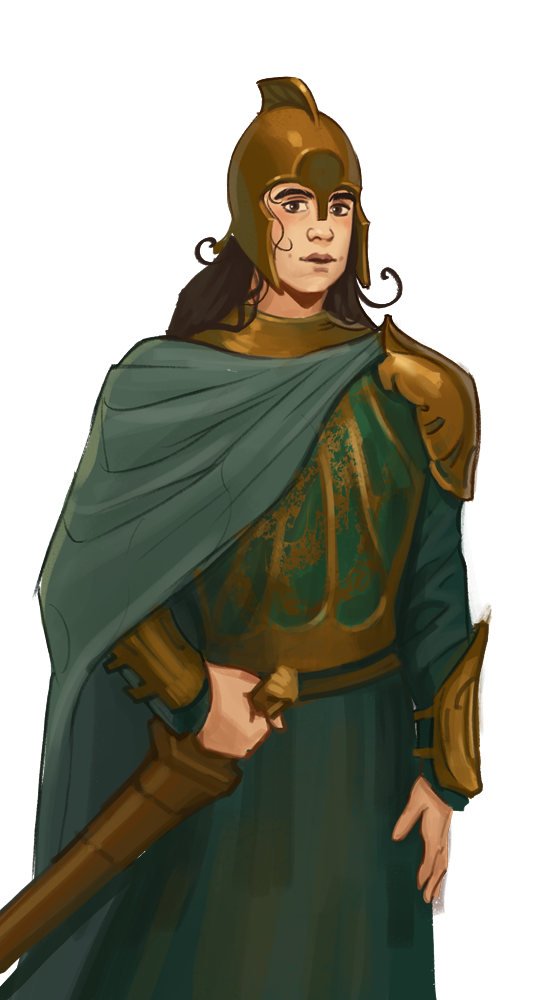
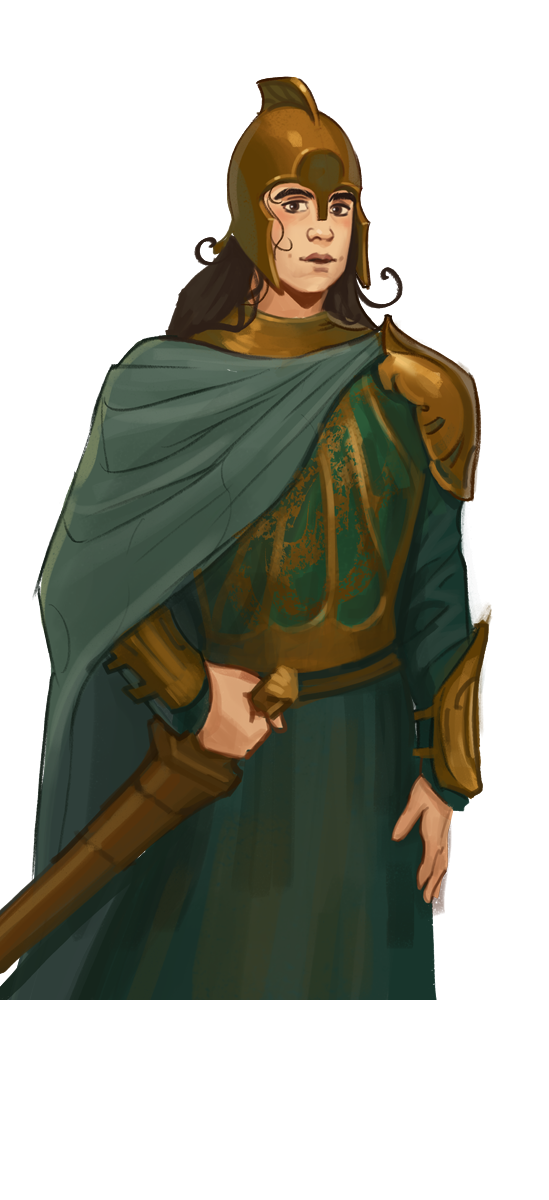
resize imgs

diff --git a/index.html b/index.html
@@ -131,7 +131,6 @@ body.innerforge {
   background-image: url('innerforge.jpg');
 }
 
-
 #story {
   margin: 0 0 0 2em !important;
   display: flex;
@@ -142,7 +141,7 @@ body.innerforge {
   position: fixed;
   bottom: 0px;
   left: 0px;
-  min-width: 600px;
+  width: 100%;
   max-width: 600px;
   max-height: 1200px;
 }
@@ -161,12 +160,13 @@ body.innerforge {
 #textbox {
   text-align: center;
   margin-bottom: 50px;
+  background-color: #99333C;
 }
 
 #textbox .link-internal {
   font-size: 2em;
   font-weight: bolder;
-  color: #ffea85
+  color: #ffea85;
 }
 
 .char {
@@ -174,18 +174,24 @@ body.innerforge {
 }
 
 .char img {
-  /*filter: blur(1px);*/
-  position: absolute;
-  bottom: 0;
-  right: 0;
+  /*filter: blur(1px);*/ */
+  position: relative;
+  width: 100%;
+  max-width: 600px;
+  max-height: 1000px;
   z-index: -5;
-  max-width: 100%;
+  object-fit: contain;
 }
 
 .chat {
   background-color: #e3d5c1;
   padding: 0.3em;
   padding-left: 2.5em;
+  position: absolute;
+  bottom: 0px;
+  min-height: 150px;
+  
+  
 }
 
 .npc-reply { 
@@ -222,10 +228,10 @@ body.innerforge {
 .link-internal {
   color: #b76e2a
 }
-</style><script role="script" id="twine-user-script" type="text/twine-javascript"></script><tw-tag name="Eregion" color="green"></tw-tag><tw-tag name="OuterForge" color="yellow"></tw-tag><tw-tag name="InnerForge" color="orange"></tw-tag><tw-tag name="Wall" color="blue"></tw-tag><tw-tag name="EveWall" color="purple"></tw-tag><tw-tag name="cel" color=""></tw-tag><tw-passagedata pid="1" name="Start" tags="" position="1075,500" size="100,100">&lt;div id=&quot;textbox&quot;&gt;
-[[Начать|Intro][$lang to &quot;ru&quot;]]
-[[Start|Intro][$lang to &quot;en&quot;]]
-&lt;/div&gt;</tw-passagedata><tw-passagedata pid="2" name="Intro" tags="Eregion" position="1225,500" size="100,100">&lt;&lt;nobr&gt;&gt;
+</style><script role="script" id="twine-user-script" type="text/twine-javascript"></script><tw-tag name="Eregion" color="green"></tw-tag><tw-tag name="OuterForge" color="yellow"></tw-tag><tw-tag name="InnerForge" color="orange"></tw-tag><tw-tag name="Wall" color="blue"></tw-tag><tw-tag name="EveWall" color="purple"></tw-tag><tw-tag name="cel" color=""></tw-tag><tw-passagedata pid="1" name="Start" tags="" position="1075,500" size="100,100">&lt;&lt;nobr&gt;&gt;&lt;div id=&quot;textbox&quot;&gt;
+&lt;p&gt;[[Начать|Intro][$lang to &quot;ru&quot;]]&lt;/p&gt;
+&lt;p&gt;[[Start|Intro][$lang to &quot;en&quot;]]&lt;/p&gt;
+&lt;/div&gt;&lt;&lt;/nobr&gt;&gt;</tw-passagedata><tw-passagedata pid="2" name="Intro" tags="Eregion" position="1225,500" size="100,100">&lt;&lt;nobr&gt;&gt;
 
 &lt;&lt;set _npcPic to &quot;MIR0.png&quot;&gt;&gt;
 &lt;&lt;switch $lang&gt;&gt;
